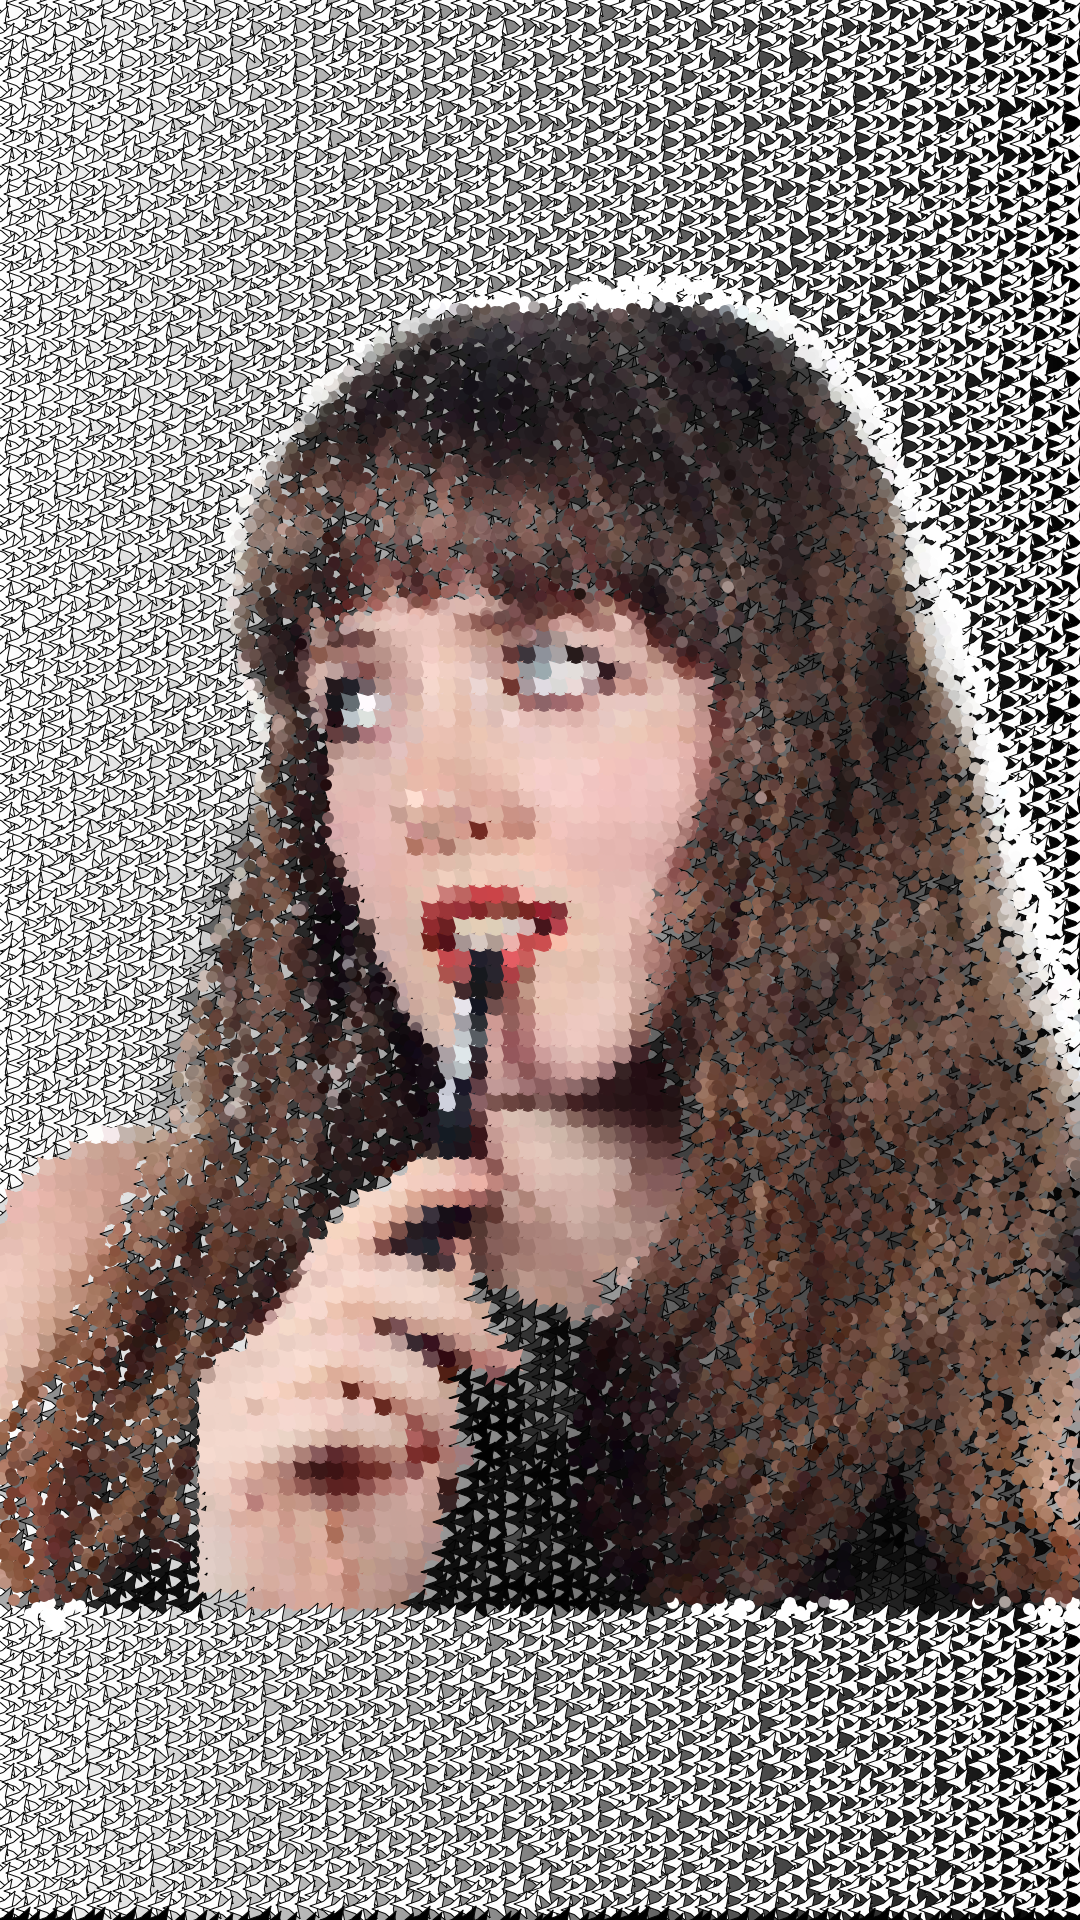
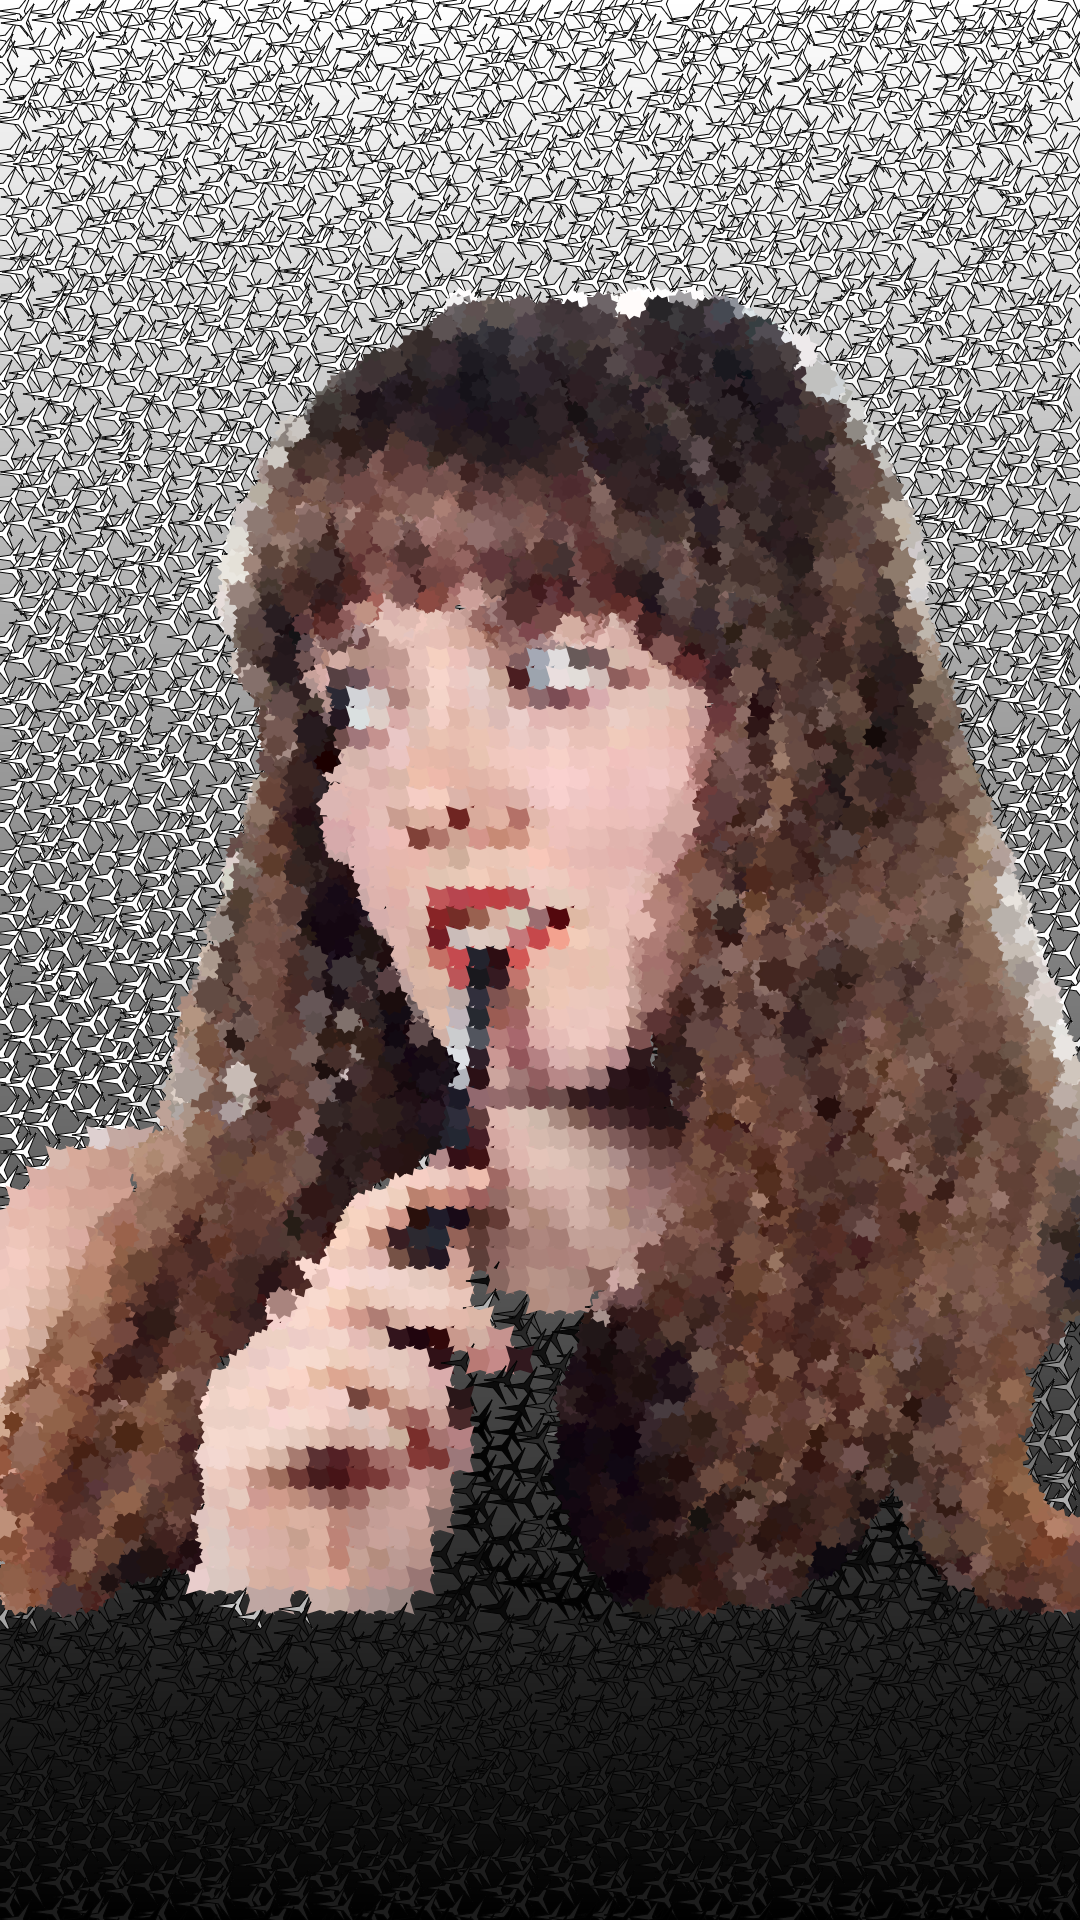
Star shaped mask

diff --git a/sketch.js b/sketch.js
@@ -13,7 +13,7 @@ var DrawCalls = 500;
 
 /* Override some variables with high-resolution final version */
 if (finalVersion) {
-	let scale = 2.8;
+	let scale = 2;
 	elementSpacing = elementSpacing/scale;
 	circleSize = circleSize/scale;
 	squareSize = squareSize/scale;
@@ -28,9 +28,9 @@ var PixelDensity = 100*2;
 
 
 function preload() {
-	sourceImg = loadImage("input_S1.jpg");
-	maskImg = loadImage("mask_S1.png");
-	maskTwoImg = loadImage("mask_S2.png");
+	sourceImg = loadImage("input_A2.jpg");
+	maskImg = loadImage("mask_A1.png");
+	maskTwoImg = loadImage("mask_A3.png");
 }
 
 function setup () {
@@ -77,7 +77,8 @@ function draw () {
 			noStroke();
 			//adds random scaling to the circles
 			let rand = getRandom(1,2);
-			ellipse(x2, y2, circleSize/rand, circleSize/rand);
+			star(x2, y2, squareSize/rand, (halfSize*1.5)/rand, 9);
+			//ellipse(x2, y2, circleSize/rand, circleSize/rand);
 		}
 		if(mask[0] > 128 && SecondDraw == false) {
 			noStroke();

diff --git a/index.html b/index.html
@@ -3,7 +3,7 @@
 <body style="background-color:white">
     <table>
         <tr>
-            <td><a href="artwork_A1_experiment.png"><img height="29%" src="artwork_A1_experiment.png"></a></td>
+            <td><a href="artwork_A1.png"><img height="29%" src="artwork_A1.png"></a></td>
             <td><a href="artwork_AnS1_experiment.png"><img height="29%" src="artwork_AnS1_experiment.png"></a></td>
             <td><a href="artwork_S.png"><img height="29%" src="artwork_S.png"></a></td>
         </tr>
